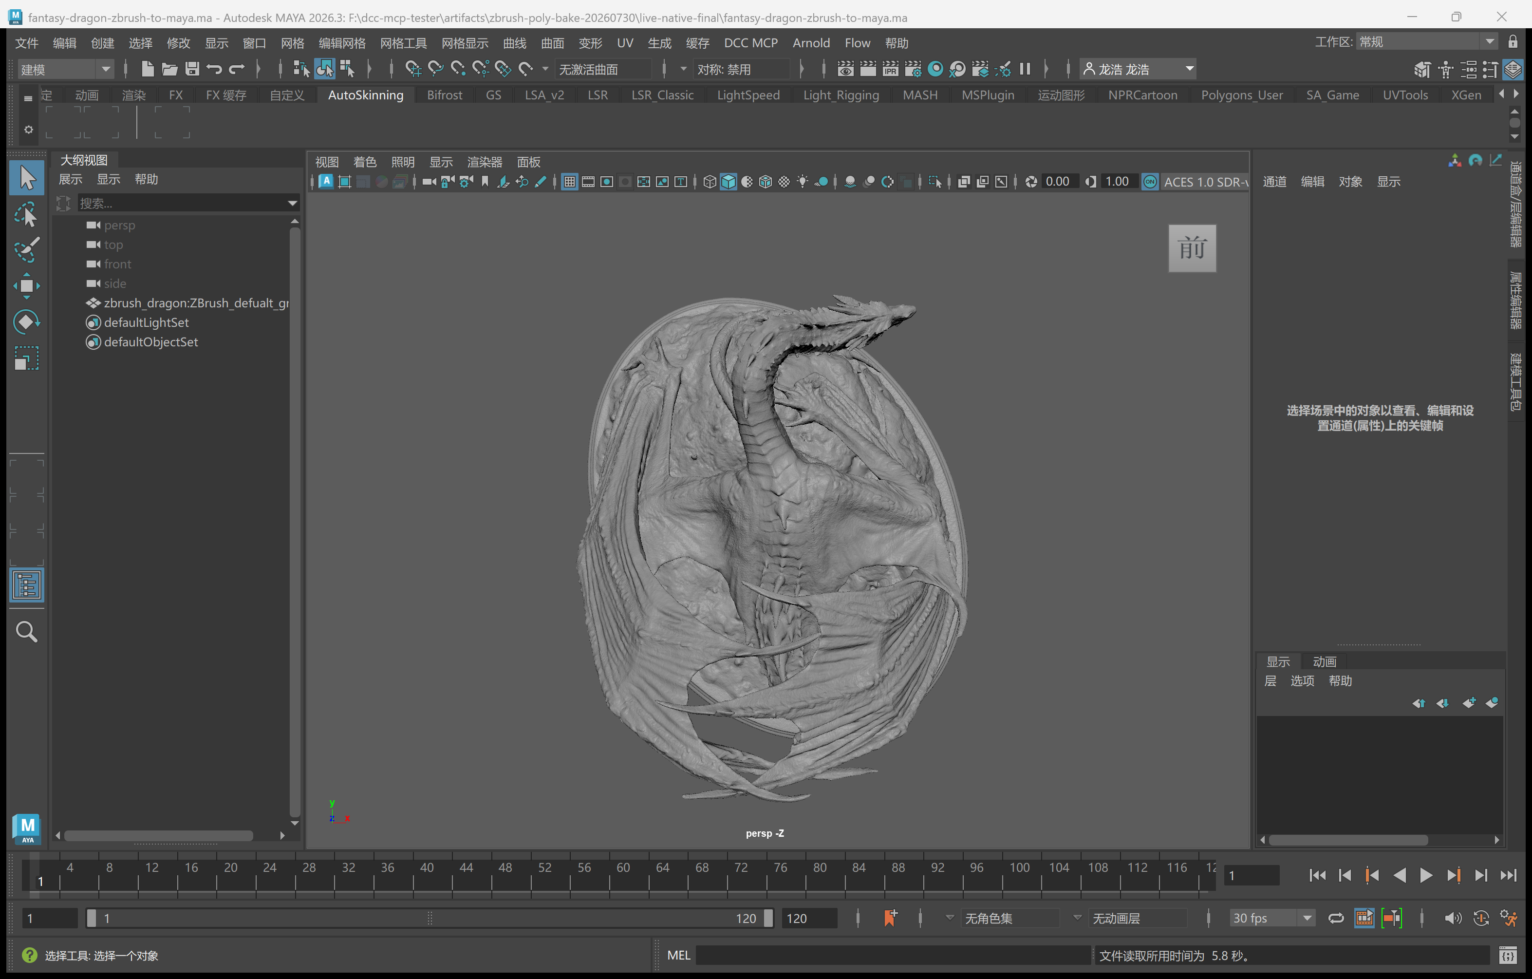
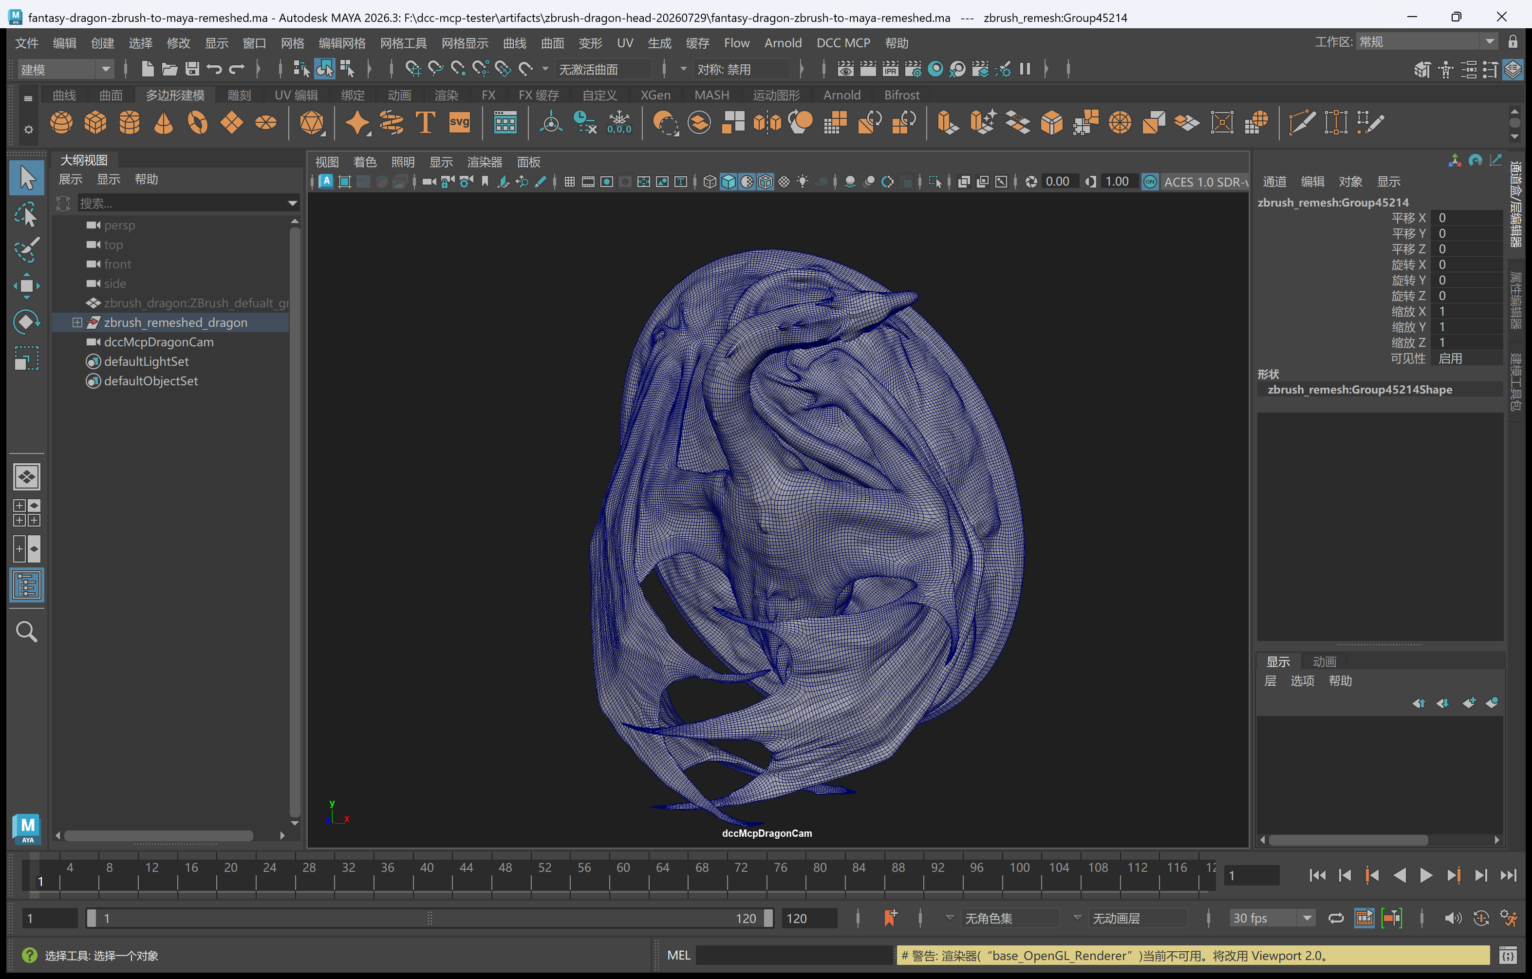
docs: publish Maya Dragon wireframe evidence

diff --git a/docs/.vitepress/theme/components/ShowcaseGallery.vue b/docs/.vitepress/theme/components/ShowcaseGallery.vue
@@ -157,13 +157,13 @@ const showcases: Showcase[] = [
     source: 'https://github.com/dcc-mcp/dcc-mcp-maya',
     en: {
       label: 'ZBRUSH → MAYA · CROSS-DCC',
-      title: 'A verified five-million-face cross-DCC round trip',
-      prompt: 'Continue a ZBrush-to-Maya validation with the exported Fantasy Dragon OBJ. Use typed Maya tools to import it into a namespace, verify exactly 2,499,970 vertices and 5,000,000 faces, isolate and frame the Dragon, save a Maya scene, and capture scoped UI evidence only through project UI Control when viewport playblast is unavailable. Do not leave test fixtures in the final scene.',
+      title: 'Five million faces reduced to a verified 115K Maya wireframe',
+      prompt: 'Continue a ZBrush-to-Maya validation with the exported Fantasy Dragon OBJ. Use typed Maya tools to verify the 2,499,970-vertex / 5,000,000-face source, then import its ZRemesh into a namespace and verify exactly 115,336 vertices and 115,364 faces. Frame the Dragon, enable wireframe-on-shaded, save the Maya scene, and use project UI Control only for scoped viewport evidence when playblast is unavailable. Do not leave test fixtures in the final scene.',
     },
     zh: {
       label: 'ZBRUSH → MAYA · 跨软件联调',
-      title: '经过验证的 500 万面跨 DCC 往返',
-      prompt: '继续验证从 ZBrush 导出的 Fantasy Dragon OBJ。使用 Maya 类型化工具导入独立 Namespace，严格核对 2,499,970 个顶点和 5,000,000 个面，只保留并框选 Dragon，保存 Maya 场景；仅当 viewport playblast 不可用时，才使用项目 UI Control 采集限定窗口证据。最终场景不得残留测试夹具。',
+      title: '将 500 万面 Dragon 化简为经验证的 11.5 万面 Maya 布线',
+      prompt: '继续验证从 ZBrush 导出的 Fantasy Dragon OBJ。先使用 Maya 类型化工具核对原始模型的 2,499,970 个顶点和 5,000,000 个面，再把 ZRemesh 导入独立 Namespace，并严格核对 115,336 个顶点和 115,364 个面。框选 Dragon、开启着色表面布线并保存 Maya 场景；仅当 viewport playblast 不可用时，才使用项目 UI Control 采集限定窗口证据。最终场景不得残留测试夹具。',
     },
   },
 ]

diff --git a/docs/public/showcase/README.md b/docs/public/showcase/README.md
@@ -10,5 +10,5 @@ Homepage showcase media is copied from the owning DCC-MCP repositories so the we
 - `maya-architecture.jpg`: `dcc-mcp/dcc-mcp-maya-procedural-architecture`, `docs/showcase/turntable-contact-sheet.jpg`
 - `kenney-assets.webp`: `dcc-mcp/dcc-asset-kenney`, `docs/images/dcc-asset-kenney-showcase.webp`
 - `zbrush-fantasy-dragon.png`: `dcc-mcp/dcc-mcp-zbrush`, captured after a typed 5,000,000-face import, 115,364-face ZRemesh, 45-degree turn, and PolyFrame display using the [Artec 3D Fantasy Dragon](https://www.artec3d.com/3d-models/fantasy-dragon) under CC BY 4.0.
-- `zbrush-maya-fantasy-dragon.png`: `dcc-mcp/dcc-mcp-maya`, captured through scoped project UI Control after a typed 5,000,000-face ZBrush-to-Maya import; model attribution remains Artec 3D, CC BY 4.0.
+- `zbrush-maya-fantasy-dragon.png`: `dcc-mcp/dcc-mcp-maya`, captured through scoped project UI Control after typed verification of the 5,000,000-face source and its 115,364-face Maya wireframe; model attribution remains Artec 3D, CC BY 4.0.
 - `wwise/*.wav`: `dcc-mcp/dcc-mcp-wwise`, `showcase/audio/*.wav`; deterministic MIT-licensed audio generated by the owning repository.
